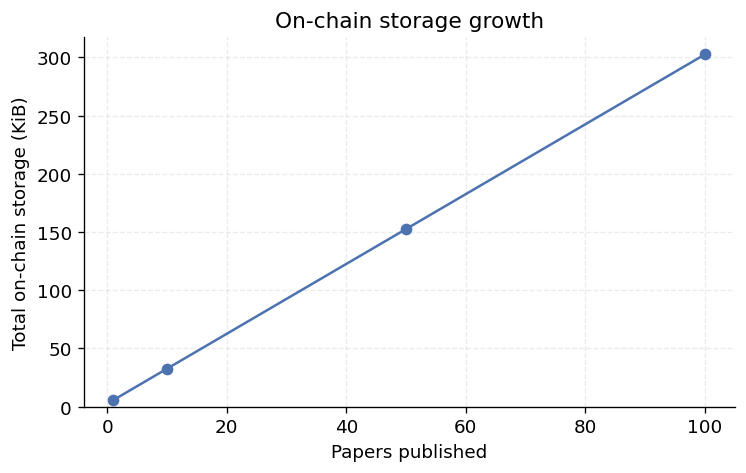
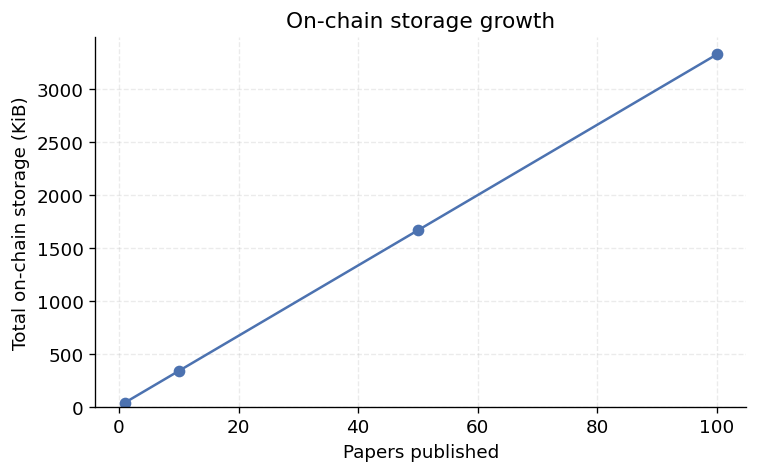
feat(bench): realistic workload for the storage benchmark
Documented field lengths (name 24, email 29, title 120, abstract 1,500,
reviewer report 2,500, AE report 1,000, decision 300, 80-char IPFS CID
link) replace the short synthetic strings, so the quoted footprint
corresponds to the quoted lengths: ~33 KiB/paper, linear, trace-validated
exactly (1,167 = 1,167 slots/lifecycle). Walker page size drops to 10 --
a 50-item page of realistic structs exceeds eth_call's gas cap, itself a
useful pagination data point. Note file quotes the per-field lengths.

diff --git a/scripts/benchmark/storage-growth.js b/scripts/benchmark/storage-growth.js
@@ -26,12 +26,66 @@
  */
 const hre = require("hardhat");
 const {
-  fmtGas, setMining, deployAll, registerRolesWithGas, runPipelineOnce,
+  fmtGas, setMining, deployAll, registerRolesWithGas,
   writeSection, writeCsv,
 } = require("./lib");
 
 const STORAGE_GROWTH_NS = [1, 10, 50, 100];
 const SLOT_BYTES = 32;
+
+// Realistic workload: representative field lengths for a genuine submission
+// (typical full name, article title of 10-15 words, a 200-250-word abstract,
+// a Pinata gateway URL with a 46-char CIDv0, a ~400-word referee report, a
+// ~150-word editor report, and a short decision letter). Deterministic
+// filler text sliced to exact length, so the footprint is reproducible.
+const FILLER =
+  "This synthetic text stands in for realistic submission content and is " +
+  "repeated to the documented field length. ";
+function filler(len) {
+  return FILLER.repeat(Math.ceil(len / FILLER.length)).slice(0, len);
+}
+const WORKLOAD = {
+  authorName: filler(24),
+  email: "[email redacted]".slice(0, 29),
+  title: filler(120),
+  abstract: filler(1500),
+  ipfsLink: "https://gateway.pinata.cloud/ipfs/Qm" + "a".repeat(44), // 80 chars
+  reviewerComment: filler(2500),
+  aeComment: filler(1000),
+  decisionMessage: filler(300),
+};
+const WORKLOAD_CHARS = {
+  authorName: 24, email: 29, title: 120, abstract: 1500, ipfsLink: 80,
+  reviewerComment: 2500, aeComment: 1000, decisionMessage: 300,
+};
+
+// One full publication lifecycle with the realistic workload. `record`
+// collects {hash, to} pairs when tracing; pass null for plain runs.
+async function runLifecycle(ctx, record) {
+  const { main, decision, eic, ae, reviewer, author } = ctx;
+  const mainAddr = await main.getAddress();
+  const decisionAddr = await decision.getAddress();
+  const w = WORKLOAD;
+
+  async function send(addr, promise) {
+    const tx = await promise;
+    await tx.wait();
+    if (record) record.push({ hash: tx.hash, to: addr });
+  }
+  await send(mainAddr, main.connect(author).getPaperInfo(
+    w.authorName, w.email, w.abstract, w.title, w.ipfsLink, author.address));
+  await send(mainAddr, main.connect(author).sendToEIC());
+  await send(mainAddr, main.connect(eic).EICapproval(true));
+  await send(mainAddr, main.connect(ae).AEapproval(true));
+  await send(mainAddr, main.connect(reviewer).Reviewerapproval(
+    true, w.reviewerComment, reviewer.address));
+  await send(mainAddr, main.connect(ae).ReviewedByAE(true, w.aeComment));
+  await send(decisionAddr, decision.connect(eic).getPaperInfo(
+    w.authorName, w.email, w.abstract, w.title, w.ipfsLink,
+    w.reviewerComment, w.aeComment, author.address));
+  await send(decisionAddr, decision.connect(eic).EICDecision(
+    true, w.decisionMessage));
+}
 
 // ---- Solidity storage-layout slot accounting -----------------------------
 
@@ -86,7 +140,9 @@ function slotsForMember(m) {
 async function walkQueue(contract, id, slotsFor) {
   const len = Number(await contract.queueLength(id));
   let slots = len > 0 ? 1 : 0; // array length slot (occupied while non-empty)
-  const PAGE = 50;
+  // With realistic ~2.5 KB review strings a 50-item page exceeds eth_call's
+  // gas cap -- itself a demonstration of why page sizes must stay modest.
+  const PAGE = 10;
   for (let offset = 0; offset < len; offset += PAGE) {
     const page = await contract.queuePage(id, offset, PAGE);
     for (const p of page) slots += slotsFor(p);
@@ -136,7 +192,7 @@ async function accountAuth(auth) {
   for (const pending of [false, true]) {
     const len = Number(await auth.memberCount(pending));
     if (len > 0) slots += 1; // array length slot
-    const PAGE = 50;
+    const PAGE = 10;
     for (let offset = 0; offset < len; offset += PAGE) {
       const page = await auth.memberPage(pending, offset, PAGE);
       for (const m of page) {
@@ -178,38 +234,11 @@ async function traceNetSlots(txHashes) {
 async function runTracedLifecycle() {
   const ctx = await deployAll();
   await registerRolesWithGas(ctx);
-  const { main, decision, eic, ae, reviewer, author } = ctx;
-  const mainAddr = await main.getAddress();
-  const decisionAddr = await decision.getAddress();
-
   const txs = [];
-  async function send(target, addr, promise) {
-    const tx = await promise;
-    await tx.wait();
-    txs.push({ hash: tx.hash, to: addr });
-  }
-  await send(main, mainAddr, main.connect(author).getPaperInfo(
-    "Author 0", "[email redacted]",
-    "An abstract describing the paper contents for benchmarking purposes.",
-    "Benchmark Paper 0", "https://gateway.pinata.cloud/ipfs/Qm0", author.address));
-  await send(main, mainAddr, main.connect(author).sendToEIC());
-  await send(main, mainAddr, main.connect(eic).EICapproval(true));
-  await send(main, mainAddr, main.connect(ae).AEapproval(true));
-  await send(main, mainAddr, main.connect(reviewer).Reviewerapproval(
-    true, "Looks good. Minor revisions suggested.", reviewer.address));
-  await send(main, mainAddr, main.connect(ae).ReviewedByAE(true, "Concur with reviewer."));
-  await send(decision, decisionAddr, decision.connect(eic).getPaperInfo(
-    "Author 0", "[email redacted]",
-    "An abstract describing the paper contents for benchmarking purposes.",
-    "Benchmark Paper 0", "https://gateway.pinata.cloud/ipfs/Qm0",
-    "Looks good. Minor revisions suggested.", "Concur with reviewer.",
-    author.address));
-  await send(decision, decisionAddr, decision.connect(eic).EICDecision(
-    true, "Accepted for publication."));
-
+  await runLifecycle(ctx, txs);
   const traced = await traceNetSlots(txs);
   const analytical =
-    (await accountMain(main)).slots + (await accountDecision(decision)).slots;
+    (await accountMain(ctx.main)).slots + (await accountDecision(ctx.decision)).slots;
   return { traced, analytical };
 }
 
@@ -227,7 +256,7 @@ async function run() {
     const ctx = await deployAll();
     await registerRolesWithGas(ctx);
     for (let i = 0; i < N; i++) {
-      await runPipelineOnce(ctx, i);
+      await runLifecycle(ctx, null);
       if ((i + 1) % 50 === 0) console.log(`    N=${N}: ${i + 1}/${N} papers`);
     }
     const m = await accountMain(ctx.main);
@@ -269,6 +298,12 @@ function renderSection(data) {
     "paginated getters) using Solidity's storage-layout rules — inline vs. " +
     "long strings, array length slots, live index-map entries, and Auth's " +
     "struct-mirror mappings. Bytes = slots × 32.\n"
+  );
+  lines.push(
+    "Workload: realistic field lengths per submission — " +
+    Object.entries(WORKLOAD_CHARS)
+      .map(([k, v]) => `${k} ${v}`)
+      .join(" chars, ") + " chars.\n"
   );
   lines.push(
     `> **Cross-checked against the EVM.** For one full lifecycle, a ` +

diff --git a/benchmarks/sections/02-latency.md b/benchmarks/sections/02-latency.md
@@ -10,38 +10,38 @@ Per-operation confirmation latency over 50 transactions, decomposed into **measu
 
 | Operation | Component | Source | Mean (ms) | P95 (ms) | Min (ms) | Max (ms) |
 |---|---|---|---:|---:|---:|---:|
-| **registerRequest** | execution | measured | 2 | 4 | 1 | 6 |
+| **registerRequest** | execution | measured | 2 | 3 | 1 | 3 |
 |  | propagation | mainnet-sim | 200 | 327 | 99 | 401 |
 |  | blockInclusion | mainnet-sim | 11,825 | 15,990 | 8,090 | 16,247 |
-|  | total | composite | 12,027 | 16,157 | 8,250 | 16,427 |
-| **approveRequest** | execution | measured | 2 | 3 | 1 | 3 |
+|  | total | composite | 12,027 | 16,156 | 8,250 | 16,427 |
+| **approveRequest** | execution | measured | 2 | 3 | 1 | 4 |
 |  | propagation | mainnet-sim | 201 | 385 | 64 | 398 |
 |  | blockInclusion | mainnet-sim | 12,089 | 14,226 | 6,872 | 15,910 |
 |  | total | composite | 12,292 | 14,353 | 7,143 | 16,111 |
-| **submitPaper** | execution | measured | 3 | 5 | 2 | 7 |
+| **submitPaper** | execution | measured | 3 | 5 | 2 | 8 |
 |  | propagation | mainnet-sim | 210 | 332 | 114 | 422 |
 |  | blockInclusion | mainnet-sim | 11,923 | 14,819 | 8,771 | 16,546 |
-|  | total | composite | 12,137 | 15,024 | 9,060 | 16,795 |
-| **EICapproval** | execution | measured | 2 | 4 | 1 | 4 |
+|  | total | composite | 12,137 | 15,024 | 9,059 | 16,796 |
+| **EICapproval** | execution | measured | 2 | 3 | 1 | 5 |
 |  | propagation | mainnet-sim | 205 | 309 | 116 | 318 |
 |  | blockInclusion | mainnet-sim | 11,580 | 15,116 | 7,393 | 15,713 |
-|  | total | composite | 11,787 | 15,329 | 7,594 | 15,933 |
-| **AEapproval** | execution | measured | 2 | 3 | 1 | 4 |
+|  | total | composite | 11,787 | 15,331 | 7,593 | 15,934 |
+| **AEapproval** | execution | measured | 2 | 4 | 1 | 5 |
 |  | propagation | mainnet-sim | 216 | 358 | 98 | 385 |
 |  | blockInclusion | mainnet-sim | 12,677 | 16,164 | 9,621 | 17,413 |
-|  | total | composite | 12,895 | 16,307 | 9,802 | 17,623 |
-| **Reviewerapproval** | execution | measured | 3 | 4 | 1 | 7 |
+|  | total | composite | 12,895 | 16,306 | 9,802 | 17,625 |
+| **Reviewerapproval** | execution | measured | 2 | 3 | 1 | 5 |
 |  | propagation | mainnet-sim | 218 | 307 | 70 | 437 |
 |  | blockInclusion | mainnet-sim | 11,819 | 15,735 | 7,646 | 16,080 |
-|  | total | composite | 12,039 | 15,988 | 7,809 | 16,324 |
-| **ReviewedByAE** | execution | measured | 2 | 2 | 1 | 3 |
+|  | total | composite | 12,039 | 15,988 | 7,808 | 16,324 |
+| **ReviewedByAE** | execution | measured | 2 | 3 | 1 | 5 |
 |  | propagation | mainnet-sim | 215 | 369 | 75 | 379 |
 |  | blockInclusion | mainnet-sim | 11,786 | 14,350 | 7,024 | 16,485 |
-|  | total | composite | 12,003 | 14,628 | 7,202 | 16,679 |
-| **EICDecision** | execution | measured | 4 | 6 | 2 | 7 |
+|  | total | composite | 12,003 | 14,628 | 7,202 | 16,678 |
+| **EICDecision** | execution | measured | 5 | 7 | 2 | 10 |
 |  | propagation | mainnet-sim | 212 | 334 | 96 | 379 |
 |  | blockInclusion | mainnet-sim | 12,214 | 14,841 | 8,850 | 15,205 |
-|  | total | composite | 12,431 | 15,063 | 9,122 | 15,369 |
+|  | total | composite | 12,431 | 15,065 | 9,121 | 15,367 |
 
 ![Latency decomposition](./figures/latency_decomposition.png)
 Raw data: [latency.csv](./latency.csv)

diff --git a/benchmarks/sections/07-storage-growth.md b/benchmarks/sections/07-storage-growth.md
@@ -2,7 +2,9 @@
 
 N papers are pushed end-to-end, then the storage the contracts occupy is accounted slot-by-slot from actual on-chain state (walked via the paginated getters) using Solidity's storage-layout rules — inline vs. long strings, array length slots, live index-map entries, and Auth's struct-mirror mappings. Bytes = slots × 32.
 
-> **Cross-checked against the EVM.** For one full lifecycle, a `debug_traceTransaction` count of net SSTOREs (slots left non-zero) gives **123 slots** vs. **123** from the analytical accounting — an exact match. Storage layout is EVM-deterministic, so these figures are network-independent (local-only run, same rationale as Section 5).
+Workload: realistic field lengths per submission — authorName 24 chars, email 29 chars, title 120 chars, abstract 1500 chars, ipfsLink 80 chars, reviewerComment 2500 chars, aeComment 1000 chars, decisionMessage 300 chars.
+
+> **Cross-checked against the EVM.** For one full lifecycle, a `debug_traceTransaction` count of net SSTOREs (slots left non-zero) gives **1167 slots** vs. **1167** from the analytical accounting — an exact match. Storage layout is EVM-deterministic, so these figures are network-independent (local-only run, same rationale as Section 5).
 
 **What is stored per paper is constant**: metadata strings plus the IPFS link — the manuscript itself lives off-chain (Pinata/IPFS), so the on-chain footprint does not depend on the PDF's size. Total storage therefore grows linearly while bytes/paper is flat; the slightly higher N=1 value is the one-time overhead (staging structs, array length slots) amortizing over more papers.
 
@@ -10,10 +12,10 @@ The pipeline archives a copy of the paper at every approval stage (`approvedByEI
 
 | N | Total slots | Total bytes | Bytes/paper | Copies/paper | Auth bytes (fixed roles) |
 |---:|---:|---:|---:|---:|---:|
-| 1 | 179 | 5,728 | 3,936 | 6 | 1,792 |
-| 10 | 1,043 | 33,376 | 3,158 | 6 | 1,792 |
-| 50 | 4,883 | 156,256 | 3,089 | 6 | 1,792 |
-| 100 | 9,683 | 309,856 | 3,081 | 6 | 1,792 |
+| 1 | 1,223 | 39,136 | 37,344 | 6 | 1,792 |
+| 10 | 10,799 | 345,568 | 34,378 | 6 | 1,792 |
+| 50 | 53,359 | 1,707,488 | 34,114 | 6 | 1,792 |
+| 100 | 106,559 | 3,409,888 | 34,081 | 6 | 1,792 |
 
 ![Storage growth](./figures/storage_growth.png)
 Raw data: [storage_growth.csv](./storage_growth.csv)

diff --git a/benchmarks/sections/04-scalability.md b/benchmarks/sections/04-scalability.md
@@ -6,10 +6,10 @@ Full Auth->Main->Decision pipeline run for N papers.
 
 | N | Total gas | Mean gas / paper | Wall-clock (ms) | Mean ms / paper |
 |---:|---:|---:|---:|---:|
-| 1 | 4,957,138 | 4,957,138 | 20 | 20 |
-| 10 | 48,310,651 | 4,831,065 | 214 | 21 |
-| 50 | 241,002,371 | 4,820,047 | 1,085 | 22 |
-| 100 | 481,860,021 | 4,818,600 | 2,033 | 20 |
-| 500 | 2,408,765,221 | 4,817,530 | 11,263 | 23 |
+| 1 | 4,957,138 | 4,957,138 | 16 | 16 |
+| 10 | 48,310,651 | 4,831,065 | 183 | 18 |
+| 50 | 241,002,371 | 4,820,047 | 967 | 19 |
+| 100 | 481,860,021 | 4,818,600 | 2,077 | 21 |
+| 500 | 2,408,765,221 | 4,817,530 | 11,371 | 23 |
 
 Raw data: [scalability.csv](./scalability.csv)